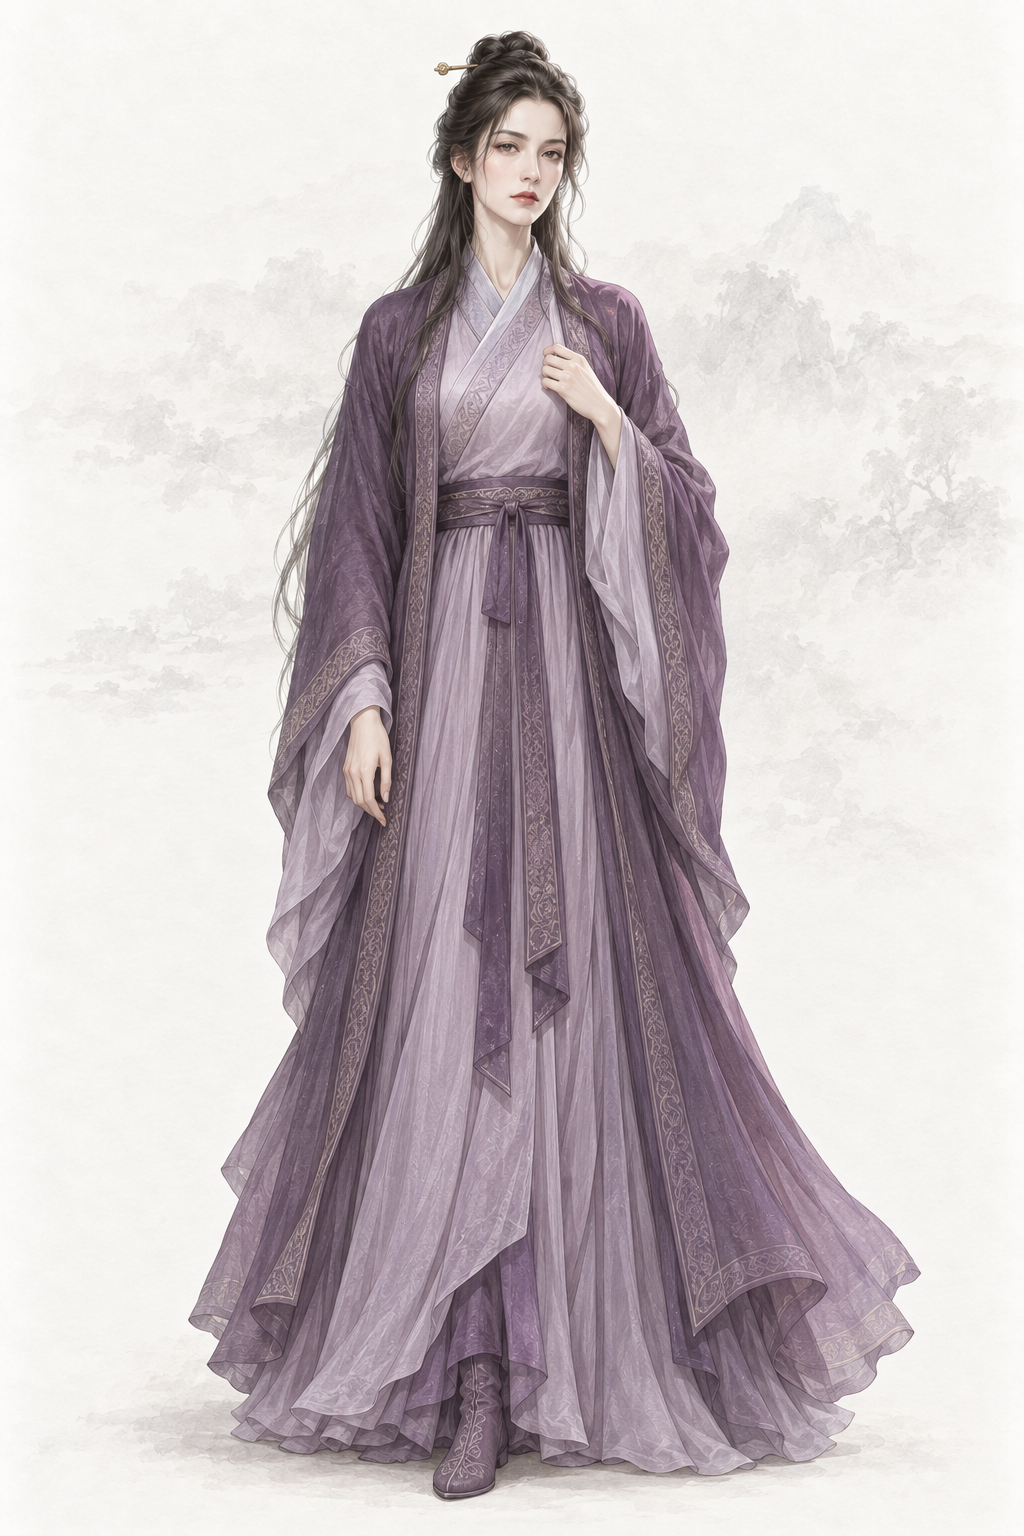
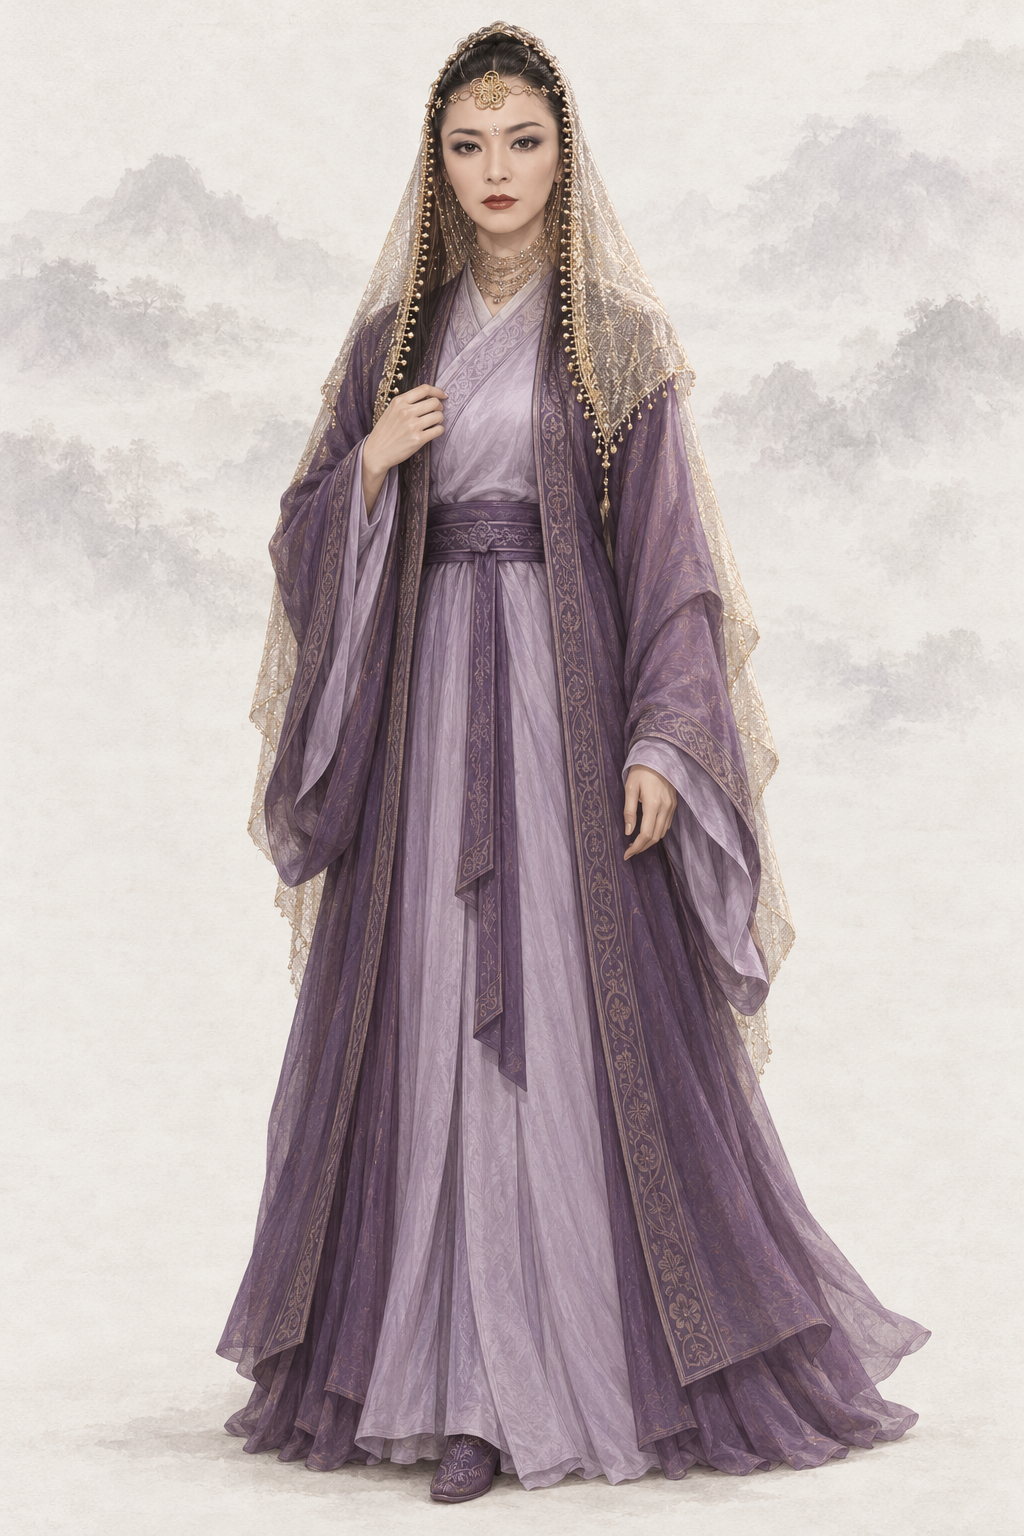
assets(character): por_npc_daiqisi__ch04_prime_longwang_base 黛绮丝（紫衫龙王真容）（codex，AR-32 经典版）
参考 2003 年苏有朋、贾静雯版《倚天屠龙记》（作者 AR-32 指定） 剧照与项目基线重出；剧照只作出图参考，不入库。

diff --git a/assets/default/prompts/characters/ch04-yitian/npc_daiqisi__longwang.md b/assets/default/prompts/characters/ch04-yitian/npc_daiqisi__longwang.md
@@ -10,15 +10,45 @@ output: assets/default/character/female/ch04/por_npc_daiqisi__ch04_prime_longwan
 manifest: assets/default/character/female/ch04/manifest.yaml
 references: []
 status: new
-redo_reason: "作者要求补黛绮丝卸去易容的紫衫龙王真容版：中原与波斯混血、中年仍极美；并作小昭母女相似的参考"
+redo_reason: "AR-32：主要角色参考经典影视版剧照（2003 年版）加基线重出（10-02，7 号出图员）"
 reference_upload:
+- .agents/coord/imagegen-reference/identity-20261002/yitian/daiqisi_2003_yanqingyu_sohu2022a.jpg
+- .agents/coord/imagegen-reference/identity-20261002/yitian/daiqisi_2003_yanqingyu_sohu2022b.jpg
 - assets/default/baseline/character/female/ref_npc_wangyuyan__ch01_base01.png
+- assets/default/baseline/character/female/ref_npc_xiaolongnv__ch03_base01.png
 codex_prompt_rev: 2026-10-02
+classic_ref:
+  version: 2003 年苏有朋、贾静雯版《倚天屠龙记》（作者 AR-32 指定）
+  actor: 阎青妤
+  stills:
+  - .agents/coord/imagegen-reference/identity-20261002/yitian/daiqisi_2003_yanqingyu_sohu2022a.jpg
+  - .agents/coord/imagegen-reference/identity-20261002/yitian/daiqisi_2003_yanqingyu_sohu2022b.jpg
 ---
 
 # 黛绮丝（紫衫龙王真容） · 基础立绘（2026-10-02 新建）
 
 ## Gemini 提示词
+
+> 2026-10-02 AR-32 改写（7 号出图员，codex exec · image_gen 出图）：主要角色参考经典影视版剧照重出——2003 年苏有朋、贾静雯版《倚天屠龙记》（作者 AR-32 指定）。按顺序上传剧照 2 张（daiqisi_2003_yanqingyu_sohu2022a.jpg、daiqisi_2003_yanqingyu_sohu2022b.jpg，在主检出 .agents/coord/imagegen-reference/identity-20261002/，不入库）取发型、服饰、配色、气质与面部特征，再上传两张同性别缩小版基线（放在最后）取画风；要求重新绘制成项目画风，不复制照片。提示词里不写演员名。上一版保留在后文作历史。
+
+```text
+生成一张 2:3 竖幅全身人物立绘：单人、单一视角、完整全身——头顶、双手、双脚和手中器物的两端都在画面内，四周留出自然空白；人物站姿自然，身体基本朝向正面，头部端正（不歪头、不仰不俯），镜头平视。
+【画风】写实手绘古风人物插画，与本项目写实武侠角色立绘同一画风，像功力深厚的画师用细腻笔触画出的真实美人。手绘插画质感，不是 CG 渲染：不要过度光滑的皮肤、完美对称的五官、塑料高光、过度锐利的发丝；保留自然的笔触和细微不完美。肌肤细腻自然，看得见极细的肤理和自然的左右不对称，不磨皮、不油亮、不打粉；头发是一缕缕自然的发丝和少量碎发；布料看得出经纬纹理、厚薄和自然垂坠的褶皱，干净完整；整体设色低饱和、雅致；柔和的自然光从左上方照来，明暗过渡自然，不打舞台光、轮廓光或美颜柔光。不是照片，不是三维渲染，不是动漫或游戏 CG，也不是油画（没有厚涂笔触和画布纹理）。
+【背景】不透明的暖浅灰色纸底，只在远处有极淡的水墨远山和薄雾，大面积留白；人物与背景明暗分明、轮廓边缘干净完整（后续要自动抠图），水墨和纸纹只在背景里，不侵入人物和衣服；脚下只有很淡的一点接触阴影。
+【剧照参考】随提示词上传的第 1、2 张参考图是这个角色经典影视造型的剧照：借鉴其发型、服饰、配色、标志道具、气质和面部特征（脸型、眉眼、鼻唇的比例与神态），让人一眼认出是这个角色；但必须重新绘制成本项目画风的手绘写实插画，不要照片质感，不要照搬剧照的构图、取景、光影、背景和姿势，也不要做成照片修图或磨皮美颜；剧照里的影楼柔光、浓妆、字幕和水印都不要。最后两张是本项目画风基线：画风、用色、光线、质感和暖浅灰纸底加淡水墨背景以它们为准。
+【人物】黛绮丝，《倚天屠龙记》明教四大护教法王之首「紫衫龙王」，当年的武林第一美人、波斯明教圣女；本图是她卸去「金花婆婆」老妇易容之后的真容。外表高傲冷艳，心里背负着与波斯明教的旧约和对亡夫的深情。
+【年龄与体态】约四十岁的成熟女子，风姿犹存；身材高挑修长、体态优雅。成年女性的五官骨相与身体比例（约 7 头身），衣着完整端庄、不透明、不暴露、不性感化。
+【经典造型】照剧照里这一版深入人心的紫衫龙王真容来画：头披一条织金薄纱头巾，从头顶垂到肩背，纱边缀着细密的小金珠；额前一枚金丝花形额饰、两侧垂着细金链；眉心一点小小的银饰；带着波斯风情的冷艳美人，眼神深邃、高傲又落寞。
+【面容】照剧照的脸型和五官来画：中原与波斯混血——颧骨略高、轮廓立体，高鼻梁、眼窝略深，一双深邃的大眼睛（深褐瞳色），眼线清晰；浓密修长、微微上挑的眉毛；唇形丰润；肌肤白皙，眼角有浅浅细纹。风华绝代的成熟美人，冷艳而动人。
+【发式】乌黑长发大部分罩在织金头纱之下，鬓边露出几缕。
+【服饰】原著因常穿紫衫得名：一身淡紫色交领右衽长衫（衣缘有少量波斯风格的细纹滚边），外罩深紫色长褙子，深紫腰带，同色长裙，软靴；头上披着那条织金薄纱头巾。
+【道具】空手。
+【姿态与神情】挺拔站立，一手轻提衣襟、一手自然垂下；眼神深邃，带着高傲和难以言说的落寞。
+【不要】画面里不要任何文字、题款、印章、签名、水印、边框、分格或多视图；不要第二个人；不要幼态（童颜、娃娃脸、婴儿肥、儿童或少年身材、大头小身）；不要塑料感皮肤、磨皮美颜、网红脸（尖下巴大眼高鼻的模板脸）、过度对称、浓妆、偶像式打光、蜡像感；不要照片质感、照片修图感、三维渲染或动漫大眼；不要直接复制剧照的画面；不要歪头、斜镜头；不要多指、缺指（设定的伤残除外）、手与器物粘连或悬空；汉式交领必须右衽（穿着者的左襟压在右襟上），不要左衽（设定为少数民族服制的除外），不要水平镜像；不要现代物品、发光特效、法阵或能量光。不要老妇或驼背的金花婆婆造型；不要金发碧眼的外国人（是混血，仍有汉人轮廓）；不要暴露或异域舞娘装束；不要厚重的舞台妆。
+【画风基线】随提示词上传的参考图里，最后两张是本项目的立绘画风基线：只参考它们的画风、用色、光线、质感和暖浅灰纸底加淡水墨的背景处理，整体画风必须与它们一致——精细写实的数字手绘插画，不是油画，不要厚涂笔触和画布纹理。基线图只取画风、光线、质感和背景处理，不取长相：不要照搬基线图里人物的长相、年龄、发型、服饰和姿势。
+```
+
+## 上一版 Gemini 提示词（AR-32 改写前，历史，不再用于出图）
 
 > 2026-10-02 AR-31 改写（1 号出图员，codex exec · image_gen 出图）：重要人物借鉴经典影视造型，只写成文字——不写演员名、不上传剧照、原创面孔；主角和美人画得好看，去 AI 味，禁止幼态。出图时上传两张同性别基线立绘作画风参考（放在最后）。审核组原稿保留在下一节作历史。
 
